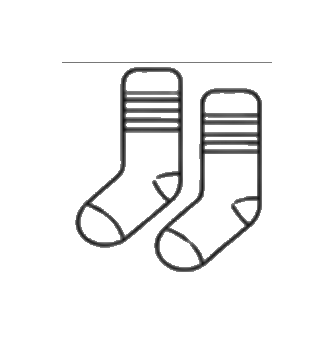
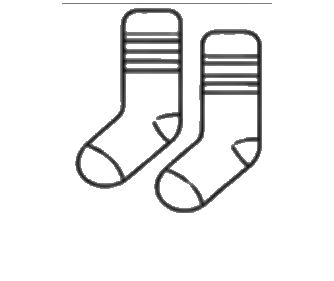
Polish Match section: remove dots, divider, column headers; bigger gap; nicer exit/entry animations; crop 17 stray-line images

Changed region(s): [[0.2096, 0.0, 0.8084, 0.8256], [0.4192, 0.5694, 0.4491, 0.5979]]

diff --git a/index.html b/index.html
@@ -42,24 +42,48 @@
   }
 
   .topbar {
-    position: sticky; top: 10px; z-index: 100;
-    display: flex; align-items: center; gap: 10px;
-    margin-bottom: 18px; width: 100%; max-width: 720px;
-    padding: 6px 12px;
-    background: rgba(240, 236, 228, 0.92);
-    border: 1px solid rgba(216, 211, 200, 0.6);
+    position: sticky; top: 8px; z-index: 100;
+    display: flex; align-items: center; gap: 8px;
+    margin-bottom: 16px; width: 100%; max-width: 720px;
+    padding: 5px 8px;
+    background: rgba(240, 236, 228, 0.85);
+    border: 1px solid rgba(216, 211, 200, 0.5);
     border-radius: 999px;
-    box-shadow: 0 4px 20px rgba(0,0,0,0.06);
-    backdrop-filter: blur(14px);
-    -webkit-backdrop-filter: blur(14px);
+    box-shadow: 0 4px 18px rgba(0,0,0,0.05);
+    backdrop-filter: blur(16px);
+    -webkit-backdrop-filter: blur(16px);
   }
   body.dark .topbar {
-    background: rgba(28, 28, 32, 0.92);
-    border-color: rgba(68, 68, 68, 0.6);
-    box-shadow: 0 4px 20px rgba(0,0,0,0.32);
+    background: rgba(28, 28, 32, 0.85);
+    border-color: rgba(68, 68, 68, 0.5);
+    box-shadow: 0 4px 18px rgba(0,0,0,0.3);
   }
-  .topbar-flag { font-size: 1.4rem; line-height: 1; flex-shrink: 0; padding-left: 4px; }
-  .topbar-toggles { display: flex; gap: 5px; flex-shrink: 0; }
+  .topbar-flag { font-size: 1.25rem; line-height: 1; flex-shrink: 0; padding-left: 4px; }
+  .topbar-tools { display: flex; gap: 4px; flex-shrink: 0; }
+  .icon-btn {
+    width: 32px; height: 32px;
+    border-radius: 999px;
+    border: 1.5px solid #D8D3C8;
+    background: rgba(255,255,255,0.6);
+    cursor: pointer;
+    display: inline-flex; align-items: center; justify-content: center;
+    color: #1C1C1E;
+    transition: background 0.15s, border-color 0.15s, color 0.15s, transform 0.15s;
+    flex-shrink: 0;
+    -webkit-tap-highlight-color: transparent;
+    padding: 0;
+  }
+  .icon-btn:hover { border-color: #1C1C1E; background: white; }
+  .icon-btn:active { transform: scale(0.94); }
+  .icon-btn svg { width: 15px; height: 15px; display: block; }
+  .icon-btn.muted { color: #C0BAB0; border-color: #E5E0D5; }
+  .icon-btn.lang {
+    font-size: 0.66rem; font-weight: 800; letter-spacing: 0.5px;
+    width: auto; min-width: 38px; padding: 0 10px;
+  }
+  body.dark .icon-btn { background: rgba(44,44,48,0.6); border-color: #444; color: #E5E5E8; }
+  body.dark .icon-btn:hover { border-color: #E5E5E8; background: #2C2C30; }
+  body.dark .icon-btn.muted { color: #555; border-color: #333; }
   .toggle {
     position: relative;
     width: 64px; height: 32px;
@@ -349,36 +373,13 @@
   .match-grid {
     display: grid;
     grid-template-columns: 1fr 1fr;
-    gap: 10px 18px;
-    width: 100%; max-width: 540px;
+    gap: 10px 28px;
+    width: 100%; max-width: 560px;
     margin-bottom: 22px;
-    position: relative;
-  }
-  .match-grid::before {
-    content: '';
-    position: absolute;
-    top: 32px; bottom: 0;
-    left: 50%;
-    width: 1px;
-    background: linear-gradient(to bottom, transparent, #D8D3C8 18%, #D8D3C8 82%, transparent);
-    pointer-events: none;
-  }
-  body.dark .match-grid::before {
-    background: linear-gradient(to bottom, transparent, #444 18%, #444 82%, transparent);
   }
   .match-col {
     display: flex; flex-direction: column; gap: 10px;
   }
-  .match-col-header {
-    display: flex; align-items: center; justify-content: center; gap: 6px;
-    font-size: 0.7rem; font-weight: 700;
-    letter-spacing: 1.2px; text-transform: uppercase;
-    color: #9E9E9E;
-    padding-bottom: 8px;
-    margin-bottom: 2px;
-  }
-  .match-col-header .flag { font-size: 0.95rem; line-height: 1; }
-  body.dark .match-col-header { color: #777; }
   .match-item[data-side="nl"] {
     font-weight: 700;
     border-left: 3px solid #FF6B35; /* NL accent */
@@ -442,7 +443,10 @@
     92%      { transform: translateX(1px)   rotate(0.5deg); }
   }
   .match-item.matched {
-    opacity: 0; pointer-events: none; transform: scale(0.92);
+    opacity: 0;
+    pointer-events: none;
+    transform: scale(0.55) rotate(-6deg) translateY(14px);
+    transition: opacity 0.42s ease, transform 0.48s cubic-bezier(0.55, 0, 0.85, 0.7);
   }
   @keyframes pulse-correct {
     0%   { transform: scale(1); }
@@ -458,10 +462,13 @@
     75%      { transform: translateX(-3px); }
     90%      { transform: translateX(3px); }
   }
-  .match-item.fade-in { animation: fadeIn 0.35s ease; }
-  @keyframes fadeIn {
-    from { opacity: 0; transform: scale(0.92); }
-    to   { opacity: 1; transform: scale(1); }
+  .match-item.fade-in {
+    animation: fadeInBounce 0.5s cubic-bezier(0.34, 1.56, 0.64, 1);
+  }
+  @keyframes fadeInBounce {
+    from { opacity: 0; transform: scale(0.55) translateY(14px); }
+    60%  { opacity: 1; transform: scale(1.04) translateY(-1px); }
+    to   { opacity: 1; transform: scale(1) translateY(0); }
   }
   body.dark .match-item { background: #2C2C30; border-color: #444; color: #E5E5E8; box-shadow: 0 1px 3px rgba(0,0,0,0.25); }
   body.dark .match-item:hover:not(.matched):not(.correct):not(.wrong) { border-color: #E5E5E8; }
@@ -482,19 +489,6 @@
     border-radius: 999px; transition: width 0.4s cubic-bezier(0.4, 0, 0.2, 1);
     box-shadow: 0 0 8px rgba(34,197,94,0.35);
   }
-  .prog-dots {
-    display: flex; gap: 3px; flex-wrap: wrap;
-    margin-top: 4px; max-width: 560px; width: 100%;
-    justify-content: flex-start;
-    opacity: 0.55;
-  }
-  .prog-dot {
-    width: 4px; height: 4px; border-radius: 50%;
-    background: #C0BAB0;
-    transition: background 0.2s, transform 0.2s;
-  }
-  .prog-dot.seen { background: var(--accent); transform: scale(1.15); }
-  body.dark .prog-dot { background: #444; }
 
   .card-row {
     display: flex; align-items: center; gap: 18px;
@@ -630,7 +624,6 @@
     .match-item.has-image { min-height: 84px; }
     .match-grid.image-mode .match-item { height: 84px; min-height: 84px; }
     .match-item.has-image img { max-height: 68px; }
-    .match-col-header { font-size: 0.62rem; letter-spacing: 1px; }
   }
 
   /* ── Phone portrait ────────────────────────────────────────────────────── */
@@ -663,7 +656,6 @@
     .match-grid.image-mode .match-item { height: 76px; min-height: 76px; }
     .match-item.has-image img { max-height: 62px; }
     .match-col { gap: 8px; }
-    .match-col-header { padding-bottom: 6px; font-size: 0.6rem; }
     .modal-card { padding: 22px 22px 18px; }
     .modal-title { font-size: 1.05rem; }
     .modal-sub { font-size: 0.82rem; margin-bottom: 18px; }
@@ -724,7 +716,6 @@
   <div class="progress-row">
     <div class="prog-bar"><div class="prog-fill" id="prog-fill" style="width:0%"></div></div>
   </div>
-  <div class="prog-dots" id="prog-dots"></div>
 
   <div class="card-row">
     <button class="arrow-btn" onclick="prevCard()">&#8592;</button>
@@ -996,14 +987,6 @@ let idx = parseInt(localStorage.getItem('dutch-idx') || '0', 10) || 0;
 let flipped = false;
 const activeCat = 'Alle';
 
-// Cards the user has flipped at least once (tracked across sessions)
-const seenCards = (() => {
-  try { return new Set(JSON.parse(localStorage.getItem('dutch-seen') || '[]')); }
-  catch { return new Set(); }
-})();
-function saveSeen() {
-  localStorage.setItem('dutch-seen', JSON.stringify([...seenCards]));
-}
 
 // ── Theme ──────────────────────────────────────────────────────────────────
 let darkMode = localStorage.getItem('dutch-dark') === '1';
@@ -1272,14 +1255,6 @@ function renderMatch(cards) {
   }
   const nlCol = document.createElement('div'); nlCol.className = 'match-col';
   const enCol = document.createElement('div'); enCol.className = 'match-col';
-  const nlHdr = document.createElement('div'); nlHdr.className = 'match-col-header';
-  nlHdr.innerHTML = '<span class="flag">🇳🇱</span><span>Nederlands</span>';
-  const enHdr = document.createElement('div'); enHdr.className = 'match-col-header';
-  enHdr.innerHTML = matchStyle() === 'image'
-    ? '<span class="flag">🖼</span><span>Beeld</span>'
-    : '<span class="flag">🇬🇧</span><span>English</span>';
-  nlCol.appendChild(nlHdr);
-  enCol.appendChild(enHdr);
   const nlOrder = shuffle(cards);
   const enOrder = shuffle(cards);
   nlOrder.forEach(c => {
@@ -1419,7 +1394,8 @@ function onMatchTap(el, card, side) {
     setTimeout(() => {
       a.el.classList.add('matched');
       b.el.classList.add('matched');
-      const delay = 380 + Math.floor(Math.random() * 220);
+      // Wait for the exit animation to play out fully, then a small pause for anticipation
+      const delay = 620 + Math.floor(Math.random() * 240);
       setTimeout(() => {
         replaceMatched(a.file);
         matchSelected = null;
@@ -1460,24 +1436,6 @@ function flashGridWrong() {
   setTimeout(() => grid.classList.remove('flash-wrong'), 520);
 }
 
-function renderProgressDots() {
-  const el = document.getElementById('prog-dots');
-  if (!el) return;
-  if (deck.length === 0) { el.innerHTML = ''; return; }
-  // Build only when count changes
-  if (el.children.length !== deck.length) {
-    el.innerHTML = '';
-    for (let i = 0; i < deck.length; i++) {
-      const d = document.createElement('div');
-      d.className = 'prog-dot';
-      el.appendChild(d);
-    }
-  }
-  for (let i = 0; i < deck.length; i++) {
-    el.children[i].classList.toggle('seen', seenCards.has(deck[i].file));
-  }
-}
-
 function showCard() {
   const c = deck[idx];
   localStorage.setItem('dutch-idx', String(idx));
@@ -1488,7 +1446,6 @@ function showCard() {
   document.getElementById('example').textContent = c.ex;
   const pct = Math.round(((idx + 1) / deck.length) * 100);
   document.getElementById('prog-fill').style.width = pct + '%';
-  renderProgressDots();
   flipped = false;
   document.getElementById('card').classList.remove('flipped');
 }
@@ -1498,11 +1455,6 @@ function flipCard() {
   document.getElementById('card').classList.toggle('flipped');
   if (flipped) {
     const c = deck[idx];
-    if (!seenCards.has(c.file)) {
-      seenCards.add(c.file);
-      saveSeen();
-      renderProgressDots();
-    }
     setTimeout(() => speak(c), 300);
   }
 }
